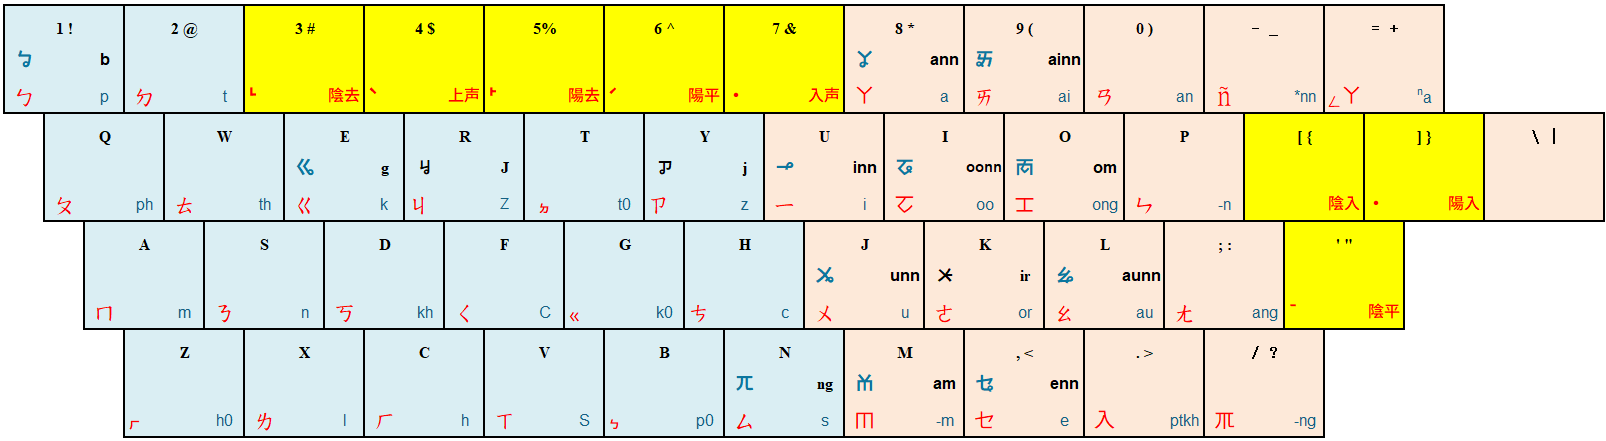
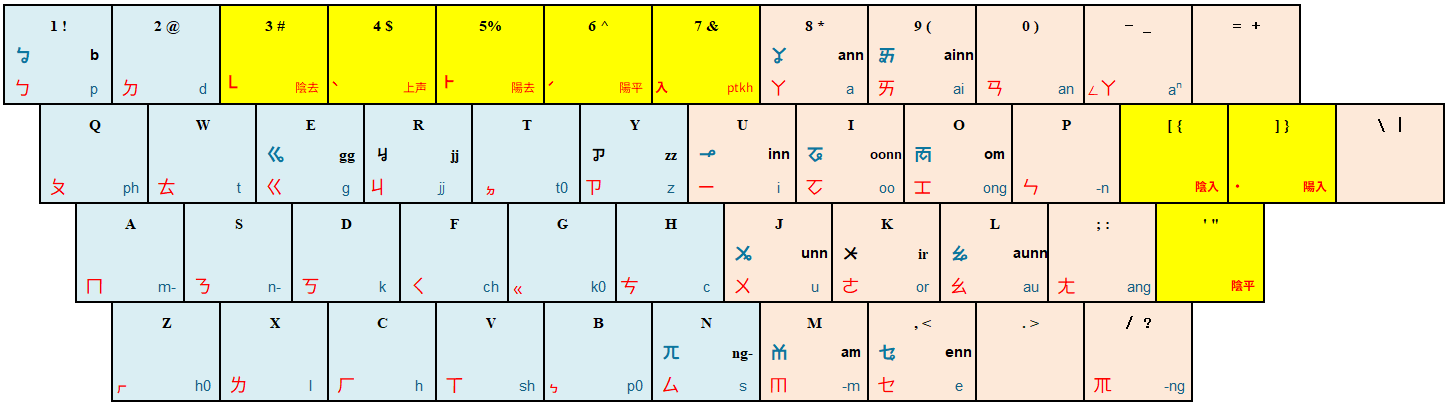
310.md v0.1.6.6

diff --git a/docs/310_反切輸入法【台語音標】設計規格.md b/docs/310_反切輸入法【台語音標】設計規格.md
@@ -60,13 +60,13 @@ actor 使用者 as user
 boundary 輸入方案 as ime
 autonumber
 
-== <font color=red>依【漢字標音】之字元逐個按鍵輸入 ==
+== <font color=red>使用者輸入：依【漢字標音】按鍵輸入 ==
 user -> ime : 輸入【台語音標】之【音節】;
 ime -> ime : 輸入【音節】轉換成【十五音】;
-== <font color=red>依據使用者之輸入反應及輸出結果 ==
+== <font color=red>輸入方案輸出：處理輸入及輸出反應 ==
 ime -> user :【輸入編輯列】顯示十五音之【聲韻調】;
 ime -> user :【候選清單】顯示符合【輸入編輯列】之漢字/標音;
-== <font color=red>自【候選清單】選擇，並輸出漢字/標音 ==
+== <font color=red>選擇與將漢字/漢字標音上屏 ==
 user -> ime :移動【選擇游標】在【候選清單】擇定欲輸出之漢字/標音項目;
 user -> ime :要求輸出【漢字】或【漢字標音】。
 
@@ -77,8 +77,8 @@ user -> ime :要求輸出【漢字】或【漢字標音】。
 
 使用者自鍵盤，依【音節】之結構，依序輸入：【聲】+【韻】+【調】。
 
- - 【聲】與【韻】為【羅馬拼音字母按鍵】；
- - 【調】為【符號按鍵】。
+- 【聲】與【韻】為【羅馬拼音字母按鍵】；
+- 【調】為【符號按鍵】。
 
 以漢字【忍】為例，在「**反切輸入法【台語音標】**」，應輸入【台語音標】：`lun2` 。
 
@@ -86,7 +86,7 @@ user -> ime :要求輸出【漢字】或【漢字標音】。
 - 韻母（韻）：【u】、【n】
 - 聲調（調）：【\】
 
-==《羅馬拼音字母之調號按鍵》==
+==《羅馬拼音之調號按鍵》==
 
 |調號|符號按鍵|調名|
 |:--:|:--:|:--:|
@@ -123,6 +123,8 @@ user -> ime :要求輸出【漢字】或【漢字標音】。
 | 6 |(無)|下上 / 陽上|
 | 7 |5	 |下去 / 陽去|
 | 8 |]	 |下入 / 陽入|
+
+![](./static/pict/注音鍵盤.png)
 
 ### 2. 輸入【音節】轉換成【十五音】
 